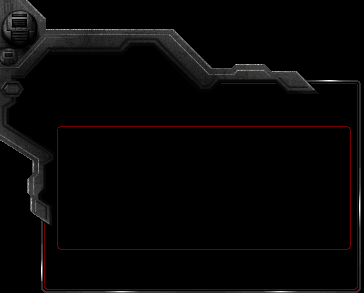
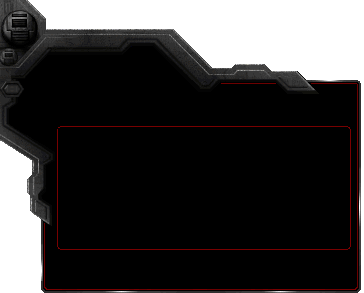
Started custom GIU per focusable, resources now mineable

Changed region(s): [[0.0604, 0.0, 1.0, 1.0], [0.0, 0.4608, 0.1209, 1.0]]

diff --git a/JavaRTS/src/main/MainClass.java b/JavaRTS/src/main/MainClass.java
@@ -32,14 +32,18 @@ public class MainClass extends JPanel implements KeyListener, MouseListener {
     public Formation formUnits = new Formation();
     boolean mousePressed = false;
     public static Vector<GameObject> focusables = new Vector<GameObject>();
+    public static int numMinerals = 0;
     public JFrame frame;
     public TileMap gameMap;
+    public static int numVespene = 0;
+    public Controllable gameFocus;
     boolean shouldMoveUnits = false;
     Point movePoint = new Point();
     public double cursorFrameChange = 1250.0;
     public Cursor[] c = new Cursor[5];
     //public Rectangle selectedArea = new Rectangle();
     public Point topLeft, bottomRight;
+    boolean notFocusOnUnit = false;
 
     public MainClass() {
         focusables.add(new Barracks(800, 600));
@@ -142,6 +146,9 @@ public class MainClass extends JPanel implements KeyListener, MouseListener {
         for(int i=0;i<focusables.size();i++){
             focusables.get(i).draw(g);
         }
+        if (notFocusOnUnit) {
+            gameFocus.drawGUI(g);
+        }
 
         if (mousePressed) {
             g.setColor(Color.BLACK);
@@ -152,6 +159,10 @@ public class MainClass extends JPanel implements KeyListener, MouseListener {
             g.setColor(new Color(65, 190, 190, 80));
             g.fillRect(topLeft.x, topLeft.y, getMousePosition().x - topLeft.x, getMousePosition().y - topLeft.y);
         }
+        g.setColor(Color.WHITE);
+        g.setFont(new Font("Times New Roman", 0, 24));
+        g.drawString("Minerals: " + numMinerals, 10, 25);
+        g.drawString("Vespene Gas: " + numVespene, 185, 25);
     }
 
 
@@ -203,6 +214,7 @@ public class MainClass extends JPanel implements KeyListener, MouseListener {
             bottomRight = e.getPoint();
             boolean changeInFocus = false;
             focusedUnits.clear();
+            notFocusOnUnit = false;
             Point tempTL = new Point(topLeft);
             Point tempBR = new Point(bottomRight);
             if(topLeft.x>bottomRight.x){
@@ -231,9 +243,19 @@ public class MainClass extends JPanel implements KeyListener, MouseListener {
                 if (focusables.get(i).isInArea(new Point(e.getX() - (int) focusables.get(i).getXPos(), e.getY() - (int) focusables.get(i).getYPos())) && !changeInFocus && focusables.get(i).isUnit()) {
                     focusedUnits.clear();
                     focusedUnits.add((Unit) focusables.get(i));
+                    changeInFocus = true;
                 } 
             }
             formUnits.setUnits(focusedUnits);
+            if (!changeInFocus) {
+                for (int i = 0; i < focusables.size(); i++) {
+                    if (focusables.get(i).isInArea(new Point(e.getX() - (int) focusables.get(i).getXPos(), e.getY() - (int) focusables.get(i).getYPos())) && !changeInFocus && !focusables.get(i).isUnit()) {
+                        gameFocus = focusables.get(i);
+                        notFocusOnUnit = true;
+                    }
+                }
+            }
+
         }
     }
 

diff --git a/JavaRTS/src/Units/SCV.java b/JavaRTS/src/Units/SCV.java
@@ -1,5 +1,8 @@
 package Units;
 
+import main.MainClass;
+import main.Workable;
+
 import javax.imageio.ImageIO;
 import java.awt.*;
 import java.awt.geom.AffineTransform;
@@ -14,6 +17,8 @@ public class SCV extends Unit {
     private static String filePath = "res/SCV.png";
     private int curImageX, curImageY;
     private boolean working = false;
+    private static double workPerTime = 0.85;
+    private Workable objectWorkingOn;
 
     public SCV() {
         super();
@@ -70,6 +75,10 @@ public class SCV extends Unit {
         working = false;
         curImageY = 0;
     }
+
+    public void setObjectWorkingOn(Workable obj) {
+        objectWorkingOn = obj;
+    }
     
     @Override
     public void update(double time) {
@@ -78,10 +87,19 @@ public class SCV extends Unit {
         if (!moving) {
             if(working){
                 curImageY = 1;
+                objectWorkingOn.doWork(time / 1000 * workPerTime);
+                if (objectWorkingOn.isHarvestable()) {
+                    if (objectWorkingOn.resourceType().equals("Mineral")) {
+                        MainClass.numMinerals += 5;
+                    } else if (objectWorkingOn.resourceType().equals("Vespene")) {
+                        MainClass.numVespene += 5;
+                    }
+                    objectWorkingOn.setHarvestable(false);
+                }
             }else{
                 curImageY = 0;
             }
-            if (angle != Math.PI * 3 / 2) {
+            if (angle != Math.PI * 3 / 2 && !working) {
                 if (angle > Math.PI * 3 / 2 || angle <= Math.PI / 2) {
                     if (angle < Math.PI * 3 / 2 + Math.PI / 64 && angle > Math.PI * 3 / 2) {
                         angle = Math.PI * 3 / 2;

diff --git a/JavaRTS/src/Units/Formation.java b/JavaRTS/src/Units/Formation.java
@@ -1,12 +1,13 @@
 package Units;
 
 import main.Controllable;
+import main.MainClass;
+import main.Workable;
 
 import java.awt.*;
 import java.awt.event.KeyEvent;
 import java.awt.event.MouseEvent;
 import java.util.Vector;
-import main.MainClass;
 
 public class Formation implements Controllable {
 
@@ -76,12 +77,10 @@ public class Formation implements Controllable {
                 boolean workable = false;
                 for(int j=0;j<MainClass.focusables.size();j++){
                     if(MainClass.focusables.get(j).isInArea(new Point((int)p.getX() - (int) MainClass.focusables.get(j).getXPos(), (int)p.getY() - (int) MainClass.focusables.get(j).getYPos())) && MainClass.focusables.get(j).isWorkable()){
-                        workable = true;
+                        SCV temp = (SCV) units.get(i);
+                        temp.setWorkable(true);
+                        temp.setObjectWorkingOn((Workable) MainClass.focusables.get(j));
                     }
-                }
-                if(workable){
-                    SCV temp = (SCV)units.get(i);
-                    temp.setWorkable(true);
                 }
             }
         }
@@ -139,6 +138,11 @@ public class Formation implements Controllable {
 
     @Override
     public void passInKeyboardReleased(KeyEvent e) {
+
+    }
+
+    @Override
+    public void drawGUI(Graphics g) {
 
     }
 }

diff --git a/JavaRTS/src/NaturalResources/Resource.java b/JavaRTS/src/NaturalResources/Resource.java
@@ -1,12 +1,16 @@
 package NaturalResources;
 
 import main.GameObject;
+import main.Workable;
 
 import java.awt.*;
 
-public abstract class Resource extends GameObject {
+public abstract class Resource extends GameObject implements Workable {
 
     int resourceLeft, maxResource;
+
+    double workPerUnit = 25.0;
+    boolean harvestable = false;
 
     public Resource() {
         super();
@@ -14,12 +18,14 @@ public abstract class Resource extends GameObject {
 
     public Resource(double x, double y) {
         super(x, y);
+
     }
 
     @Override
     public void update(double time) {
 
     }
+
 
     @Override
     public void draw(Graphics g) {
@@ -29,6 +35,30 @@ public abstract class Resource extends GameObject {
     @Override
     public boolean isWorkable(){
         return true;
+    }
+
+    @Override
+    public boolean isHarvestable() {
+        return harvestable;
+    }
+
+    @Override
+    public void setHarvestable(boolean set) {
+        harvestable = set;
+    }
+
+    @Override
+    public void doWork(double workDone) {
+        workPerUnit -= workDone;
+        if (workPerUnit <= 0) {
+            workPerUnit += 25.0;
+            harvestable = true;
+        }
+    }
+
+    @Override
+    public String resourceType() {
+        return "Res";
     }
     
 }

diff --git a/JavaRTS/src/Structures/Structure.java b/JavaRTS/src/Structures/Structure.java
@@ -2,9 +2,16 @@ package Structures;
 
 import main.GameObject;
 
+import javax.imageio.ImageIO;
+import java.awt.*;
+import java.awt.image.BufferedImage;
+import java.io.File;
+import java.io.IOException;
+
 public abstract class Structure extends GameObject {
     protected int stages;
     protected float hpPerStage;
+    static BufferedImage menuPiece;
     protected boolean finishedConstruction;
     protected int curImage = 0;
     public Structure() {
@@ -13,6 +20,11 @@ public abstract class Structure extends GameObject {
 
     public Structure(double x, double y) {
         super(x, y);
+        try {
+            menuPiece = ImageIO.read(new File("res/PC Computer - StarCraft - General Rip/Menu Pieces/plistmap2.png"));
+        } catch (IOException e) {
+            e.printStackTrace();
+        }
     }
     
     @Override
@@ -31,6 +43,11 @@ public abstract class Structure extends GameObject {
     @Override
     public boolean isWorkable(){
         return true;
+    }
+
+    @Override
+    public void drawGUI(Graphics g) {
+        g.drawImage(menuPiece, 0, 787, null);
     }
 
 }

diff --git a/JavaRTS/src/NaturalResources/Mineral.java b/JavaRTS/src/NaturalResources/Mineral.java
@@ -17,8 +17,8 @@ public class Mineral extends Resource {
 
     public Mineral(double x, double y) {
         super(x, y);
-        int[] xPoints = {-30, 30, 30, -30};
-        int[] yPoints = {-25, -25, 25, 25};
+        int[] xPoints = {-31, 31, 31, -31};
+        int[] yPoints = {-26, -26, 26, 26};
         area = new Polygon(xPoints, yPoints, 4);
         HP = 250;
         try {
@@ -31,6 +31,11 @@ public class Mineral extends Resource {
     @Override
     public void draw(Graphics g) {
         g.drawImage(image, (int) xPos - image.getWidth() / 2, (int) yPos - image.getHeight() / 2, null);
+    }
+
+    @Override
+    public String resourceType() {
+        return "Mineral";
     }
 
 }

diff --git a/JavaRTS/src/main/Workable.java b/JavaRTS/src/main/Workable.java
@@ -1,0 +1,18 @@
+/*
+ * To change this license header, choose License Headers in Project Properties.
+ * To change this template file, choose Tools | Templates
+ * and open the template in the editor.
+ */
+package main;
+
+public interface Workable {
+
+    void doWork(double workDone);
+
+    boolean isHarvestable();
+
+    void setHarvestable(boolean set);
+
+    String resourceType();
+
+}

diff --git a/JavaRTS/src/main/Controllable.java b/JavaRTS/src/main/Controllable.java
@@ -1,5 +1,6 @@
 package main;
 
+import java.awt.*;
 import java.awt.event.KeyEvent;
 import java.awt.event.MouseEvent;
 
@@ -20,5 +21,7 @@ public interface Controllable {
     void passInKeyboardTyped(KeyEvent e);
 
     void passInKeyboardReleased(KeyEvent e);
+
+    void drawGUI(Graphics g);
 
 }

diff --git a/JavaRTS/src/Units/Unit.java b/JavaRTS/src/Units/Unit.java
@@ -55,6 +55,11 @@ public abstract class Unit extends GameObject {
     }
     
     public abstract String getUnitType();
+
+    @Override
+    public void drawGUI(Graphics g) {
+
+    }
     
     public Point getFocusPoint(){
         if(focusPoints.size()==0){

diff --git a/JavaRTS/src/NaturalResources/Vespene.java b/JavaRTS/src/NaturalResources/Vespene.java
@@ -33,4 +33,9 @@ public class Vespene extends Resource {
         g.drawImage(image, (int) xPos - image.getWidth() / 2, (int) yPos - image.getHeight() / 2, null);
     }
 
+    @Override
+    public String resourceType() {
+        return "Vespene";
+    }
+
 }

diff --git a/JavaRTS/src/main/GameObject.java b/JavaRTS/src/main/GameObject.java
@@ -97,4 +97,9 @@ public abstract class GameObject implements Controllable {
             shift = false;
         }
     }
+
+    @Override
+    public void drawGUI(Graphics g) {
+
+    }
 }
